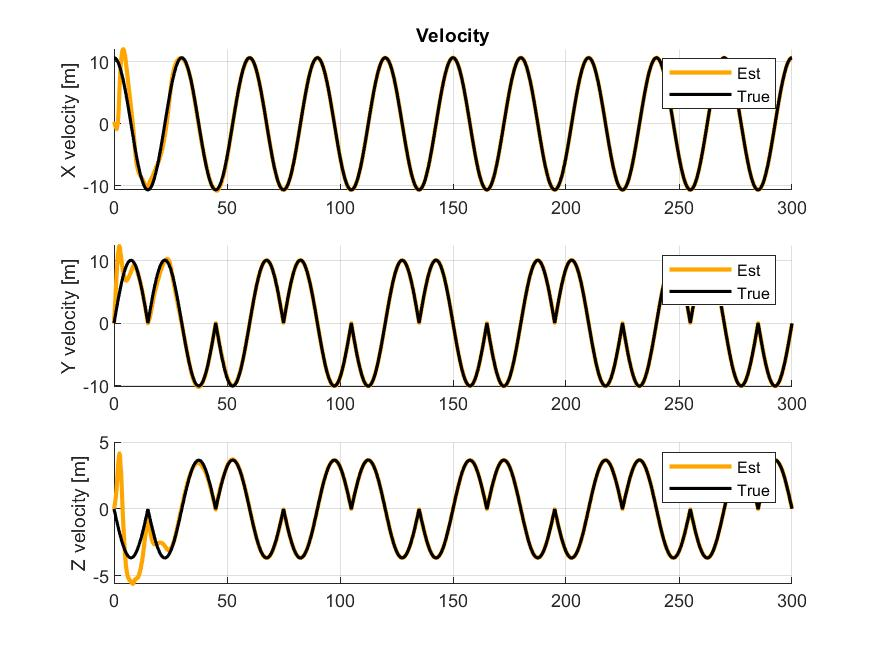
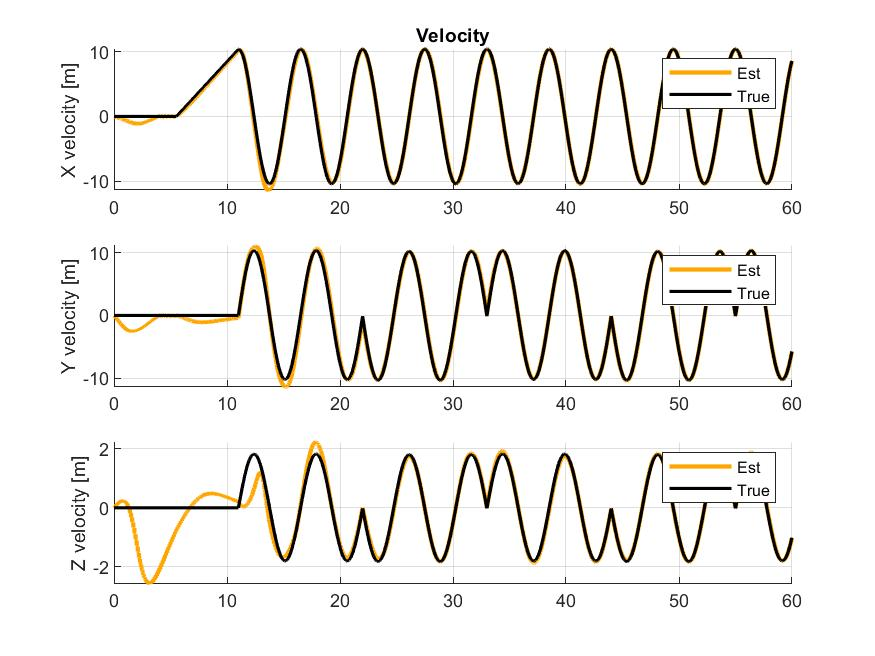
Correct skidpad track measurements. Simulate with goal speed. Added moving baseline to improve convergence. Added pit lane before entering the actual skidpad-track

diff --git a/ESKF/MESKF_sola.m b/ESKF/MESKF_sola.m
@@ -8,7 +8,7 @@ rad2deg = 180/pi;
 Z3 = zeros(3,3);
 I3 = eye(3);
 
-simtime = 300;
+simtime = 60;
 f_samp  = 100;          %imu frequency
 f_low   = 10;           %aiding frequency
 h       = 1/f_samp;     %sampling time
@@ -55,7 +55,9 @@ ErrorStateKalman_sola(r_b_1, r_b_2, r_b_3, E_prev,0, 0, f_low, 1, f_b_imu_0, ome
 
 % init
 x_ins(1:3) = [5;6;7]; % for testing av ESKF
+% x_ins(1:3) = p_n_nb(:,1);
 x_ins(4:6) = [0;0;0]; % for testing av ESKF
+% x_ins(4:6) = v_n_nb(:,1);
 x_ins(10:13) = [1 0 0 0]'; % for testing av ESKF
 % x_ins(4:6) = [v_abs;0;0]; % korrekt initialisering. For testing av INS
 
@@ -115,40 +117,52 @@ for k = 1:N
         
         % noisy measurements
         p_n_nb(1:3,k) = p_n_nb(1:3,k) +  0.001 * wgn(3, 1, 1);
-%         q_meas = q_nb(1:4,k) + 0.00005 * wgn(4, 1, 1);
-%         
-%         q_conj = quatconj(q_n_ins')';
-%         delta_q = quatprod(q_conj, q_meas);
-%         delta_theta = 2*delta_q(2:4);
+        q_meas = q_nb(1:4,k) + 0.00005 * wgn(4, 1, 1);
+        
+        q_conj = quatconj(q_n_ins')';
+        delta_q = quatprod(q_conj, q_meas);
+        delta_theta = 2*delta_q(2:4);
         
 %         p_gnss_1 = p_n_nb(1:3,k) + I3*R_nb_ins*r_b_1 - Smtrx(R_nb_ins*r_b_1)*delta_theta;
 %         p_gnss_2 = p_n_nb(1:3,k) + I3*R_nb_ins*r_b_2 - Smtrx(R_nb_ins*r_b_2)*delta_theta;
         
-        % dual gnss position meas
+        % Dual gnss position meas
         R_nb_t = Rquat(q_nb(1:4,k)');
         p_gnss_1 = p_n_nb(1:3,k) + R_nb_t * r_b_1;
         p_gnss_2 = p_n_nb(1:3,k) + R_nb_t * r_b_2;
 %         p_gnss_3 = p_n_nb(1:3,k) + R_nb_t * r_b_3;
 
-        % corresponding position estimates
+        % --> corresponding position estimates
         p_hat_1 = p_n_ins + R_nb_ins * r_b_1;
         p_hat_2 = p_n_ins + R_nb_ins * r_b_2;
 %         p_hat_3 = p_n_ins + R_nb_ins * r_b_3;
         
-        % ground speed velocity meas
+
+        % Ground speed velocity meas
         H_gss_alloc = [1 0 0; 0 1 0; 0 0 0];
         v_gss = H_gss_alloc*( R_nb_ins'*v_n_nb(1:3,k) + Smtrx( omega_b_imu(:,k) - bars_b_nb)*r_b_3 );
         v_gss = norm( v_gss );
 
-        % corresponding velocity estimates
+        % --> corresponding velocity estimates
         v_hat = R_nb_ins' * v_n_ins - r_b_3(3)*(bars_b_ins(2) - omega_b_imu(2,k)) + r_b_3(2)*(bars_b_ins(3) - omega_b_imu(3,k));
         v_hat = norm(v_hat);
+        
+        
+        % Moving baseline
+        bl = R_nb_t * (r_b_2 - r_b_1);
+        bl_hat = R_nb_ins * (r_b_2 - r_b_1);
+        
+        % Stand-still acceleration
+        f_imu = -(R_nb_t)' * g_n_nb + bacc_b_nb(1:3,k);
+        f_hat = -(R_nb_ins)' * g_n_nb + bacc_b_ins;
+        
+        
         
         % compute difference 
 %         delta_y = [(p_gnss_1 - p_hat_1) ; (p_gnss_2 - p_hat_2); (p_gnss_3 - p_hat_3); delta_theta]; 
 %         delta_y = [(p_gnss_1 - p_hat_1) ; (p_gnss_2 - p_hat_2); delta_theta]; 
 %         delta_y = [(p_gnss_1 - p_hat_1); (p_gnss_2 - p_hat_2)];
-        delta_y = [(p_gnss_1 - p_hat_1) ; (p_gnss_2 - p_hat_2) ; (v_gss - v_hat)];
+        delta_y = [(p_gnss_1 - p_hat_1) ; (p_gnss_2 - p_hat_2) ; (v_gss - v_hat) ; (bl - bl_hat)];
         
         % compute error state with ESKF
         [delta_x, E_prev] = ErrorStateKalman_sola(r_b_1, r_b_2,r_b_3, E_prev, delta_y, R_nb_ins, f_low, 0, f_b_imu(:,k), omega_b_imu(:,k), g_n_nb, x_ins);
@@ -365,8 +379,8 @@ grid on;
 
 subplot(3, 1, 3)
 hold on;
-plot(time, rad2deg*ins_data(12,:), 'Color', [1,165/255, 0], 'Linewidth', 2);
-plot(time, rad2deg*att_n_nb(3,:),'Color', 'black', 'Linewidth', 1.5);
+plot(time, rad2deg*ins_data(12,:),'.', 'Color', [1,165/255, 0], 'Linewidth', 2);
+plot(time, rad2deg*att_n_nb(3,:),'.', 'Color', 'black', 'Linewidth', 1.5);
 xlabel('Time [s]');
 ylabel('Yaw angle [deg]')
 legend('Est', 'True');
@@ -545,11 +559,14 @@ saveas(gcf,'results/GravityErrorState.jpeg')
 % Position map
 figure(14)
 figure(gcf)
-subplot(1, 1, 1)
+hold on;
 plot(p_n_nb(2,:), p_n_nb(1,:), 'Color', 'black', 'Linewidth', 1.5);
 plot(ins_data(2,:), ins_data(1,:), 'Color', [1,165/255, 0], 'Linewidth', 1.5);
+% plot(p_n_nb(2,10*f_samp:end), p_n_nb(1,10*f_samp:end), 'Color', 'black', 'Linewidth', 1.5);
+% plot(ins_data(2,10*f_samp:end), ins_data(1,10*f_samp:end), 'Color', [1,165/255, 0], 'Linewidth', 1.5);
 xlabel('Y position [m]');
 ylabel('X position [m]');
 title('Position Plot');
+legend('True', 'Estimated');
 grid on;
 saveas(gcf,'results/PositionMap.jpeg')

diff --git a/ESKF/SkidPadSim.m b/ESKF/SkidPadSim.m
@@ -9,15 +9,17 @@ deg2rad = pi/180;
 h = 1/frequency;
 N = simtime/h;
 
+t_goal = 5.5;
+
 % Circle data
-R = 10 * sqrt(26);
-v_abs = (2 * pi * R) / 30;
+R = 9.125;
+v_abs = (2 * pi * R) / t_goal;
 % inclination = 20;
 % height = 18.20;
 
 g = 9.81;
-t = h;
-count = 1;
+t = 0;
+count = 0;
 
 
 % Allocate data
@@ -33,11 +35,11 @@ omega_b_imu_data = zeros(3,N);
 
 
 % Initialize
-p_n_nb = [0 0 18.20]';
-v_n_nb = [v_abs 0 0]';
+p_n_nb = [0 0 0]';
+v_n_nb = [0 0 0]';
 % att_n_nb = [0 0 0]';
 
-roll = deg2rad * -20;
+roll = deg2rad * 10;
 pitch = deg2rad * 0;
 yaw = deg2rad * 0;
 q_nb = euler2q(roll, pitch, yaw);
@@ -62,18 +64,39 @@ v_b_nb = [0 0 0]';
 % roll_rate = deg2rad * 11.31*cos(alpha);
 % yaw_rate = pi/15;
 % omega_b_nb = [pitch_rate roll_rate yaw_rate]';
-omega_b_nb = [0 0 pi/15]';
-a_b_nb = [0 (v_abs^2)/R 0]';
+
+% omega_b_nb = [0 0 pi/(5.5/2)]';
+% a_b_nb = [0 (v_abs^2)/R 0]';
+
+omega_b_nb = [0 0 0]';
+a_b_nb = [0 0 0]';
+
 g_n_nb = [0 0 g]';
 
+skid_flag = false;
+start = false;
 
 for k = 1:N
     
     time(k) = t;
-    modulo = mod(round(t,5),15); 
-    if (modulo == 0)
+    
+    if (t > t_goal) && (start == false)
+        omega_b_nb = [0 0 0]';
+        a_b_nb = [v_abs/t_goal 0 0]';
+        start = true;
+    end
+    
+    
+    if (t > 2*t_goal) && (skid_flag == false)
+        omega_b_nb = [0 0 pi/(t_goal/2)]';
+        a_b_nb = [0 (v_abs^2)/R 0]';
+        skid_flag = true;
+    end
+    
+    modulo = mod(round(t,5),(t_goal/2)); 
+    if (modulo == 0)&& (skid_flag == true)
         count = count + 1;
-        if ( count == 2 )
+        if ( count == 4 )
             omega_b_nb = -omega_b_nb;
             a_b_nb = -a_b_nb;
             count = 0; 

diff --git a/ESKF/ErrorStateKalman_sola.m b/ESKF/ErrorStateKalman_sola.m
@@ -25,7 +25,9 @@ function [delta_x, E] = ErrorStateKalman_sola(r_b_1, r_b_2, r_b_3, E_prev,delta_
         R_att = std_att^2*I3;
         std_vel = 1;
         R_vel = std_vel^2*I3;
-        R = blkdiag(R_pos, R_pos, std_vel^2);
+        std_acc = 0.5;
+        R_acc = std_acc^2*I3;
+        R = blkdiag(R_pos, R_pos, std_vel^2, 2*R_pos);
 %         R = blkdiag(R_pos , R_pos);
 
 
@@ -93,10 +95,12 @@ function [delta_x, E] = ErrorStateKalman_sola(r_b_1, r_b_2, r_b_3, E_prev,delta_
           
           
           
-          H = [        I3         Z3          Z3  -R_nb_hat*Smtrx(r_b_1)          Z3       Z3   % gnss_1
-                       I3         Z3          Z3  -R_nb_hat*Smtrx(r_b_2)          Z3       Z3   % gnss_2
-                H_gss_pos  H_gss_vel  H_gss_bacc               H_gss_att  H_gss_bars  H_gss_g]; % ground speed
+          H = [        I3         Z3          Z3        -R_nb_hat*Smtrx(r_b_1)          Z3       Z3   % gnss_1
+                       I3         Z3          Z3        -R_nb_hat*Smtrx(r_b_2)          Z3       Z3   % gnss_2
+                H_gss_pos  H_gss_vel  H_gss_bacc                     H_gss_att  H_gss_bars  H_gss_g % ground speed
 %                        Z3         Z3          Z3                      I3          Z3       Z3]; % delta_theta
+                       Z3         Z3          Z3  -R_nb_hat*Smtrx(r_b_2-r_b_1)          Z3       Z3];   % baseline
+%                        Z3         Z3          I3     Smtrx(R_nb_hat' * g_n_nb)          Z3       Z3]; % acc
                
 %          M = rref(obsv(A,H))  
          rank(obsv(A,H))
